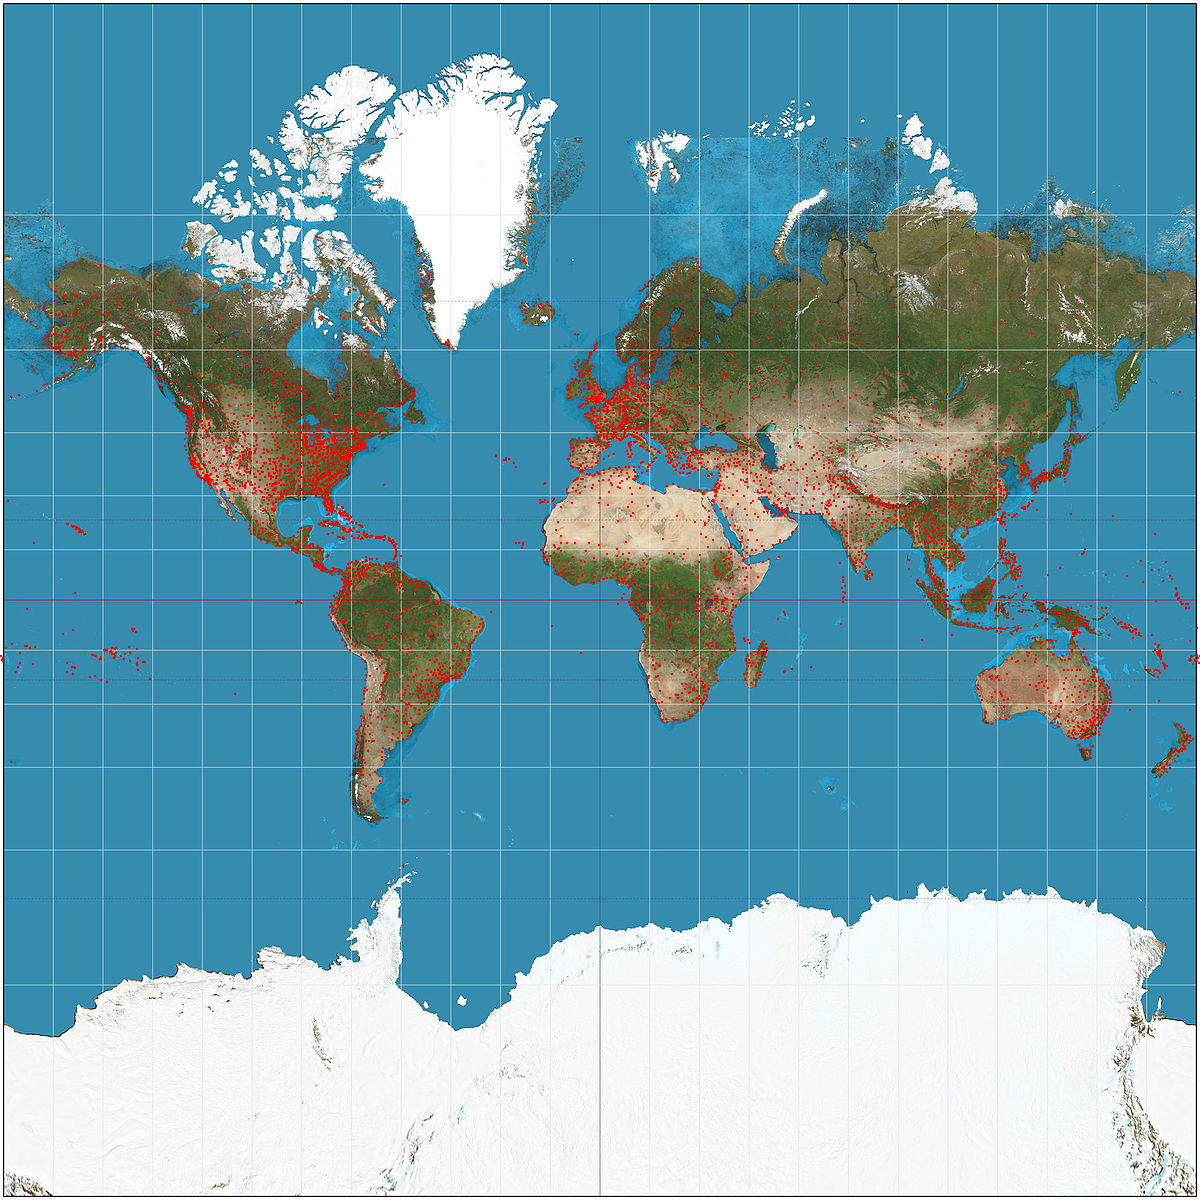
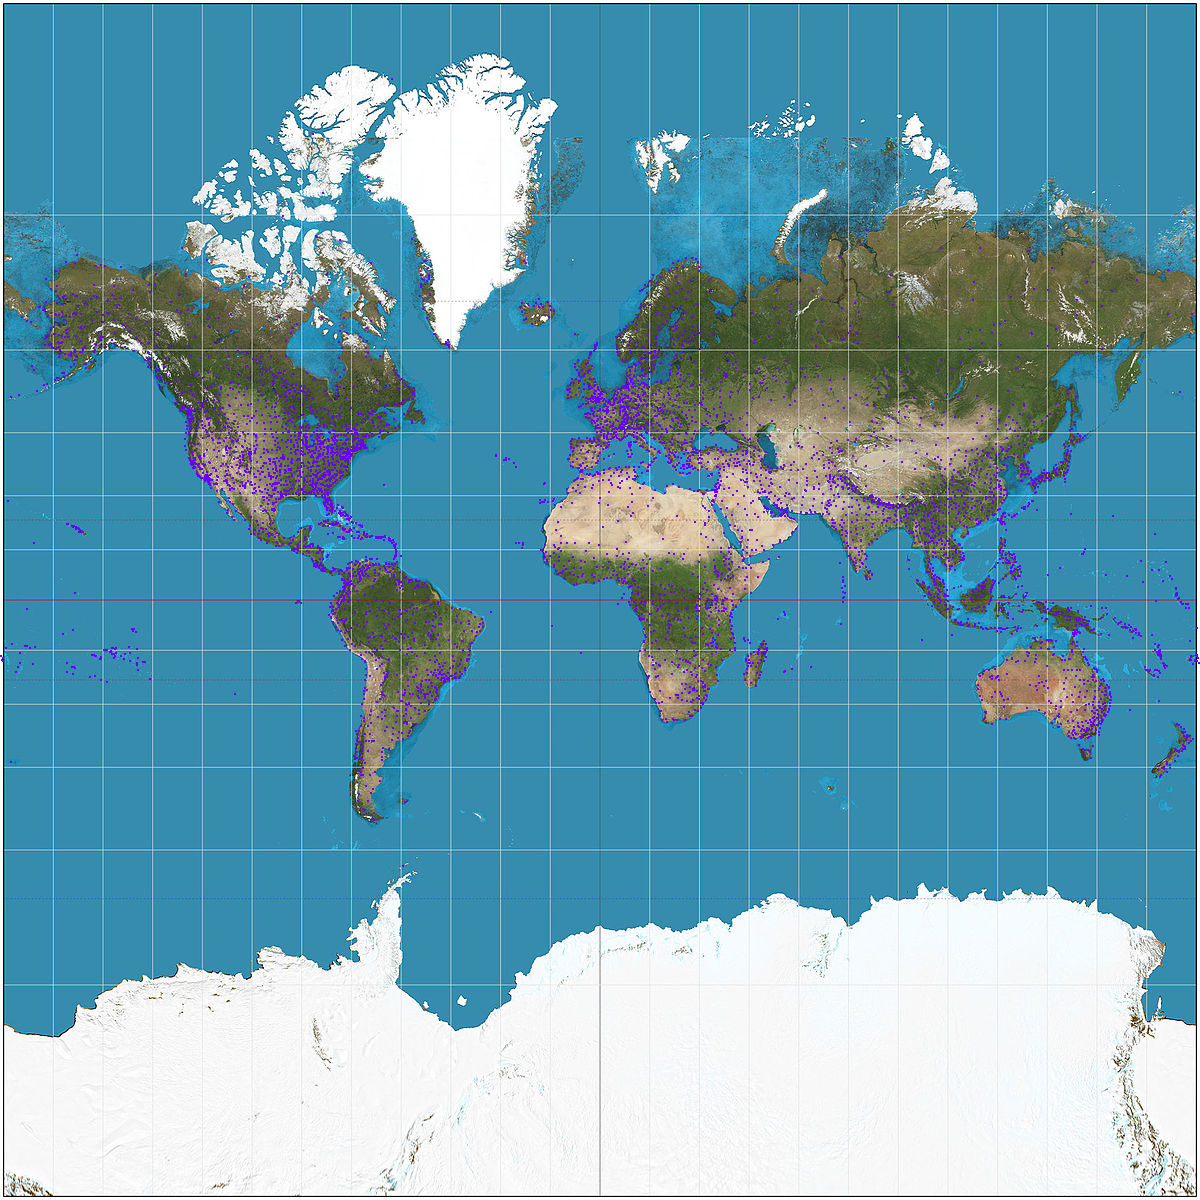
Modify tests to compile with new parameters on AddPoint()

diff --git a/tests/tests.cpp b/tests/tests.cpp
@@ -15,13 +15,15 @@ Network small_net("tests/data/airports_small.txt", "tests/data/routes_small.txt"
 static constexpr double kEpsilon = 0.01;
 
 TEST_CASE("Draw airports") {
-  cs225::PNG png;       png.readFromFile("mercator.png");
+  cs225::PNG png;       
+  png.readFromFile("mercator.png");
   Map m(png);
-    std::unordered_map<std::string, Airport> airports = full_net.GetAirports();
-    for(auto& it: airports) {
-      m.AddPoint(it.second.getLatitude(), it.second.getLongitude());
-    }
-    REQUIRE(!airports.empty());
+  std::unordered_map<std::string, Airport> airports = full_net.GetAirports();
+
+  for(auto& it: airports) {
+    m.AddPoint(it.second.getLatitude(), it.second.getLongitude(), 0.5);
+  }
+  REQUIRE(!airports.empty());
   m.GetMap().writeToFile("airport_map.png");
 }
 
